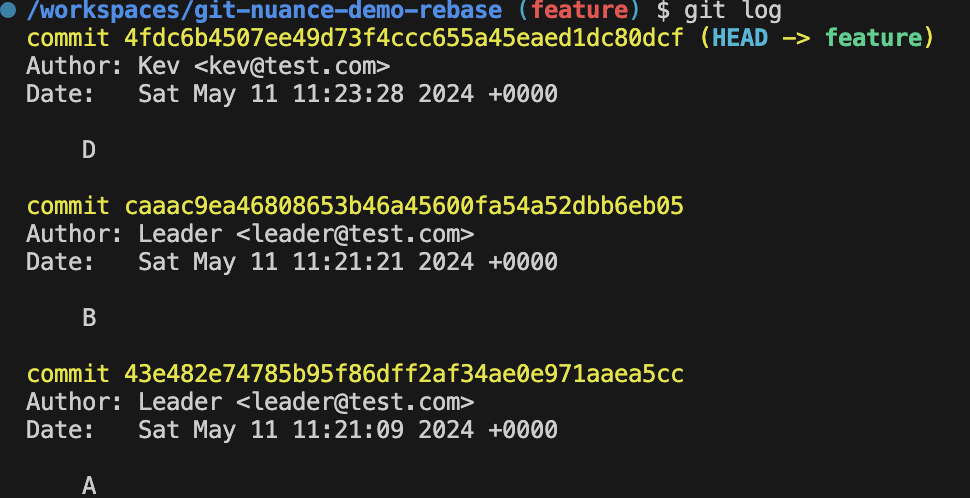
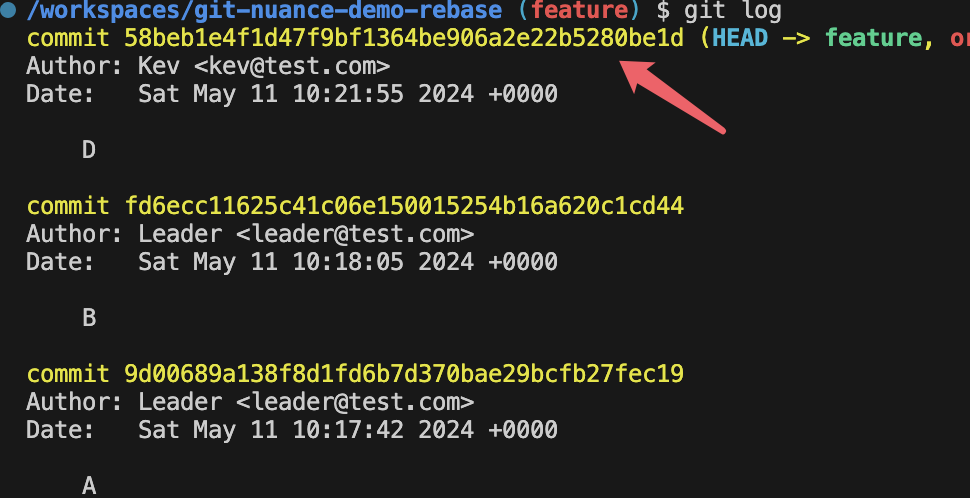
edit demo

diff --git a/README.md b/README.md
@@ -185,7 +185,7 @@ A---B---C---M [main]
 
 > Before continuing the rebase process, **Re-do** the **Scenario Setup** with another Git repo
 
-the **Scenario Setup**, our initial commit graph looks as this.
+the **Scenario Setup**, our [Initial Git Commit Graph](#initial-git-commit-graph) looks as this.
 
 ```css
 A---B---C [main]
@@ -193,13 +193,13 @@ A---B---C [main]
       D [feature]
 ```
 
-Take a look at branch `feature`.
+Take a look at branch `feature` at this point.
 
 <img alt="" src="image-6.png" width="500" />
 
-The commit `D`'s commit ID (hash) is `4fdc6b4...`.
+The commit `D`'s commit ID (hash) is `58beb1e...`.
 
-And the changes in this commit.
+And the changes in this commit is:
 
 <img alt="" src="image-13.png" width="500" />
 
@@ -235,7 +235,7 @@ Initial content
 Modified by Dash
 =======
 Modified by Kev
->>>>>>> 4fdc6b4 (D)
+>>>>>>> 58beb1e (D)
 ```
 
 The conflict looks **identical** to what we did in the last option (Merge) doesn't it? But the terminal console is different.
@@ -244,12 +244,12 @@ The conflict looks **identical** to what we did in the last option (Merge) doesn
 /workspaces/git-nuance-demo-rebase (feature) $ git rebase main
 Auto-merging example.txt
 CONFLICT (content): Merge conflict in example.txt
-error: could not apply 4fdc6b4... D
+error: could not apply 58beb1e... D
 hint: Resolve all conflicts manually, mark them as resolved with
 hint: "git add/rm <conflicted_files>", then run "git rebase --continue".
 hint: You can instead skip this commit: run "git rebase --skip".
 hint: To abort and get back to the state before "git rebase", run "git rebase --abort".
-Could not apply 4fdc6b4... D
+Could not apply 58beb1e... D
 ```
 
 It tells us to **Resolve all conflicts manually**, and continue with `git rebase --continue`.
@@ -268,7 +268,7 @@ D
 #
 # interactive rebase in progress; onto 05cfdd2
 # Last command done (1 command done):
-#    pick 4fdc6b4 D
+#    pick 58beb1e D
 # No commands remaining.
 # You are currently rebasing branch 'feature' on '05cfdd2'.
 #
@@ -287,7 +287,7 @@ Now the rebase has finished, take a look at the commit history of branch `featur
 
 Pay special attention to the commit ID of `D`.
 
-It's now `9e1e9f1...`, remember what was it before the rebase? It was `4fdc6b4...`.
+It's now `9e1e9f1...`, remember what was it before the rebase? It was `58beb1e...`.
 
 And the changes of this commit.
 
